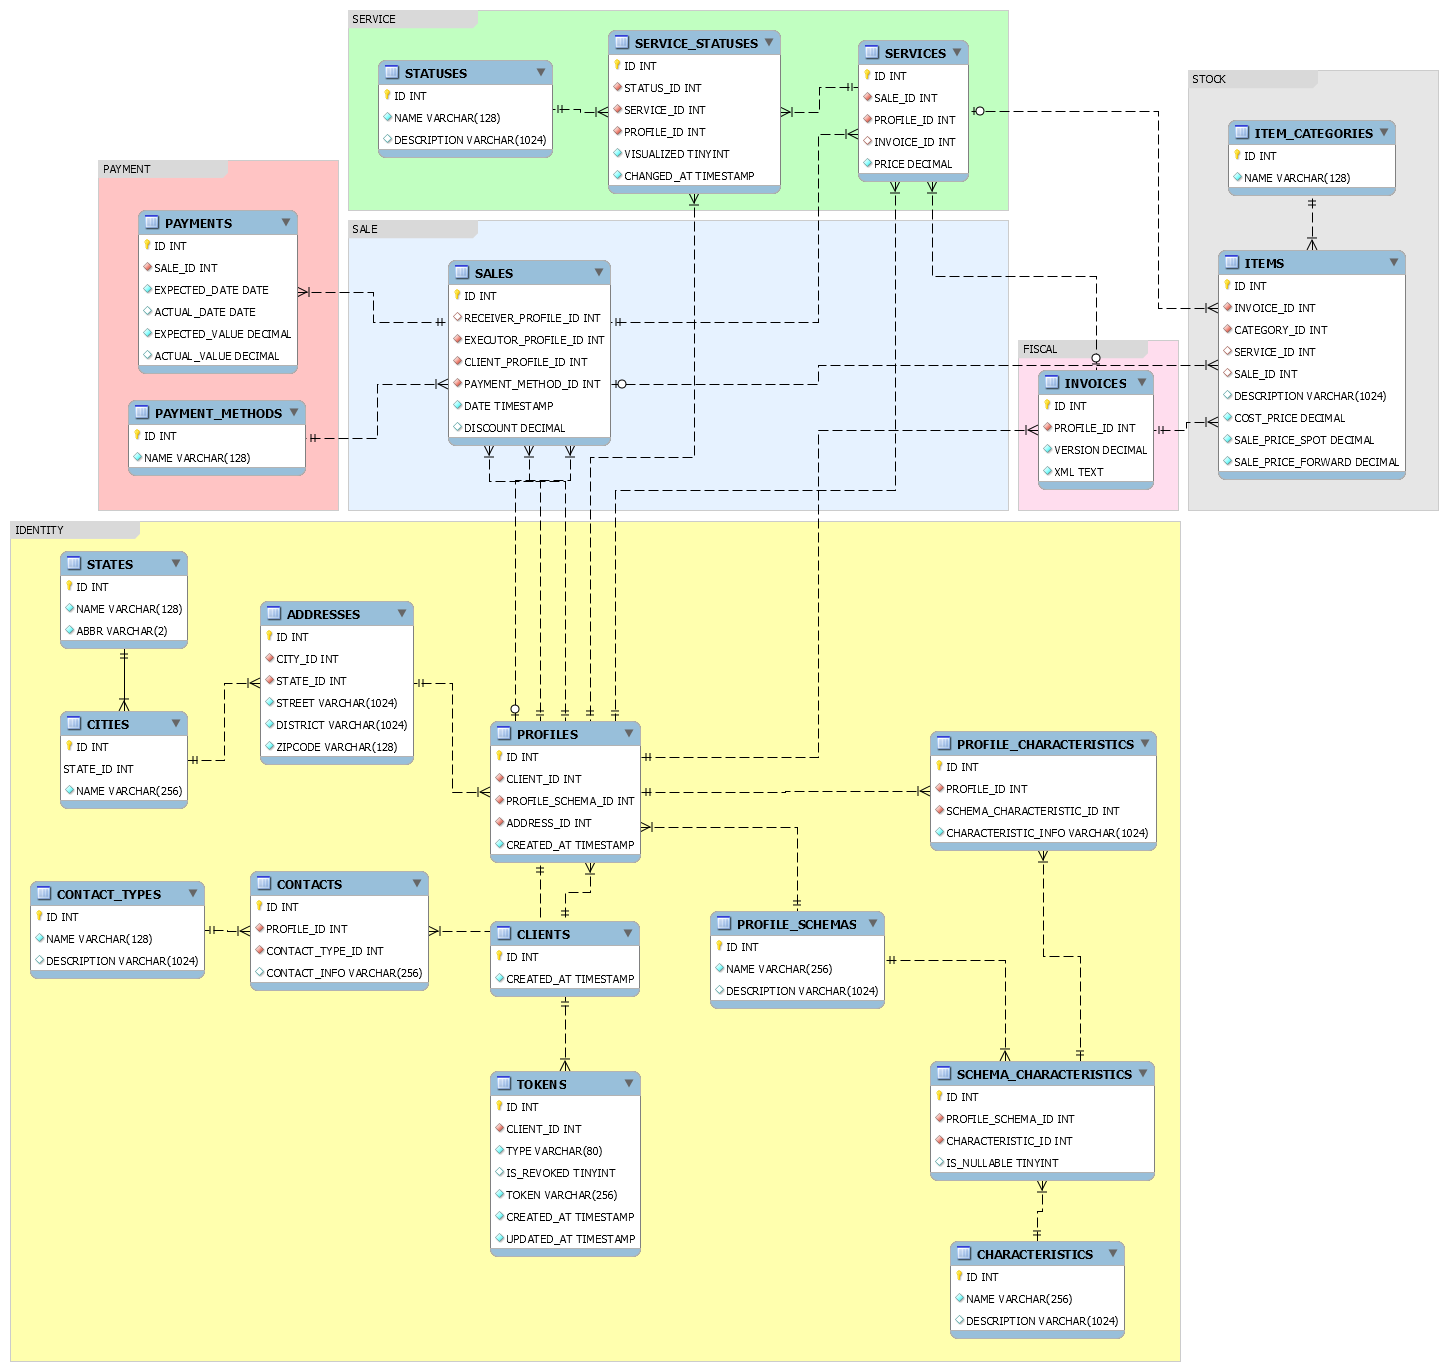
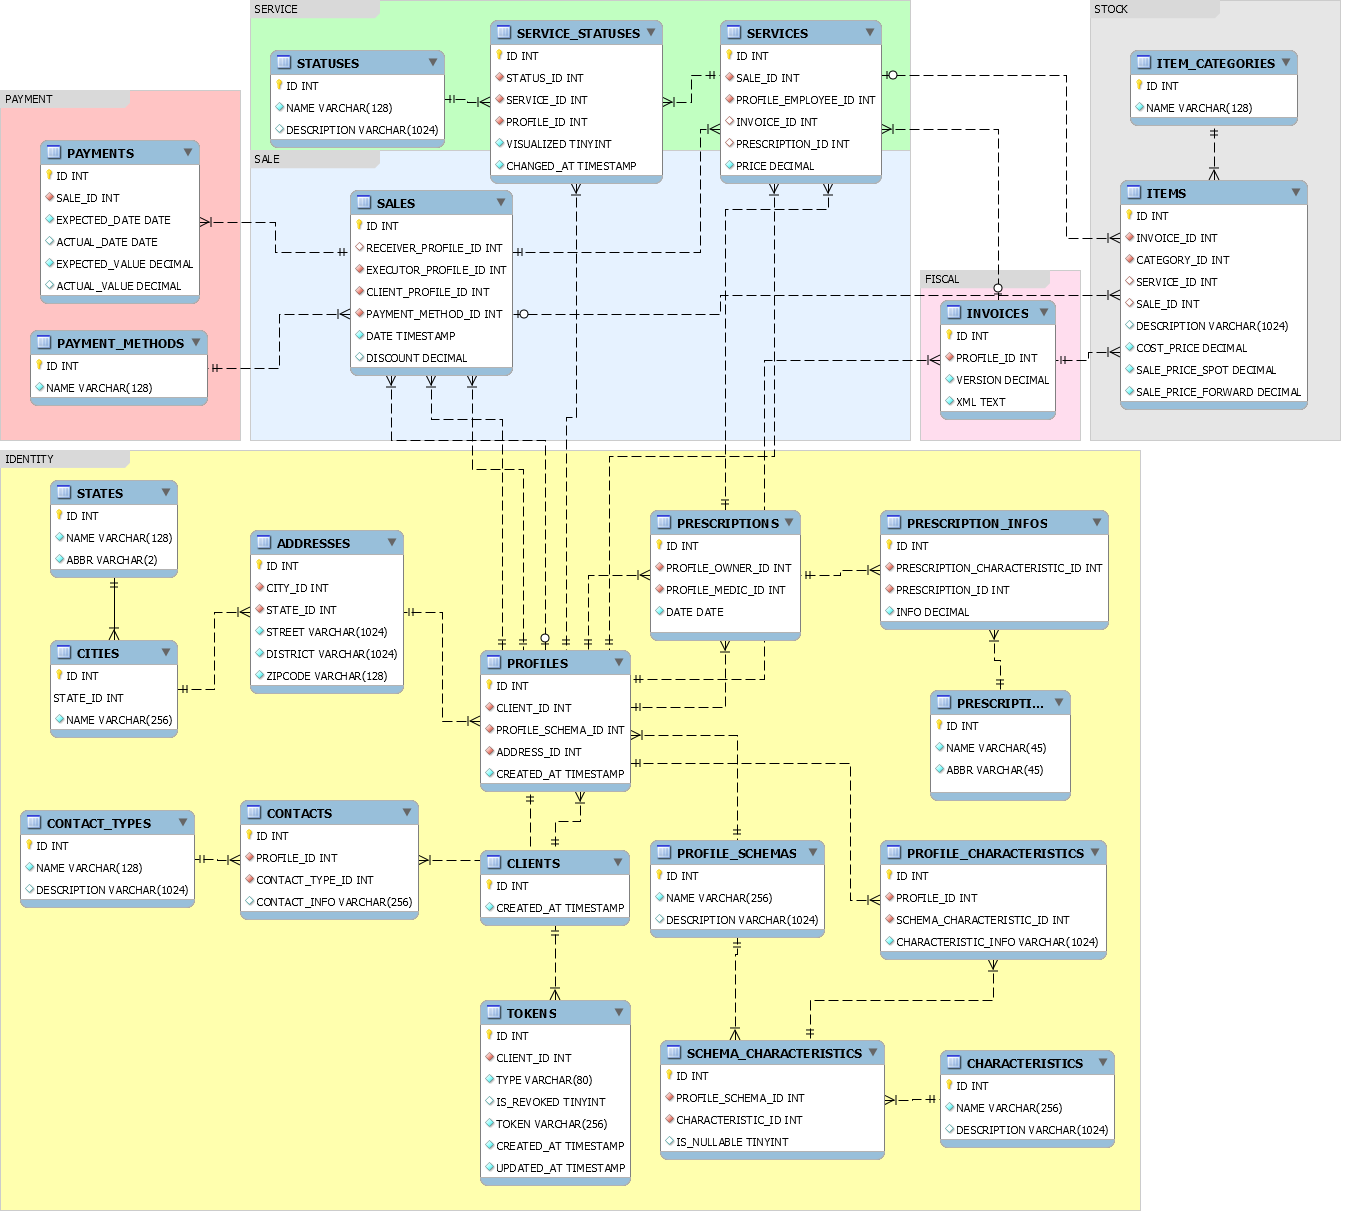
[Artifacts] Adicionado modelo para receitas

diff --git a/README.md b/README.md
@@ -1,7 +1,9 @@
 # TRABALHO 01 : ÓTICA
+
 Trabalho desenvolvido durante a disciplina de Banco de Dados II.
 
 ## SUMÁRIO
+
 - [1 COMPONENTES](#1componentes)
 - [2 INTRODUÇÃO E MOTIVAÇÃO](#2introduÇÃo-e-motivaÇÃo)
 - [3 MINI-MUNDO](#3mini-mundo)
@@ -12,14 +14,18 @@ Trabalho desenvolvido durante a disciplina de Banco de Dados II.
 - [8 INSERT APLICADO NAS TABELAS DO BANCO DE DADOS](#8insert-aplicado-nas-tabelas-do-banco-de-dados)
 - [9 TABELAS E PRINCIPAIS CONSULTAS](#9tabelas-e-principais-consultas)
 
-## 1	COMPONENTES
+## 1 COMPONENTES
+
 ### 1.1 Integrantes do grupo
+
 - Sávio Santos Serra
 
-## 2	INTRODUÇÃO E MOTIVAÇÃO
+## 2 INTRODUÇÃO E MOTIVAÇÃO
+
 Através da observação da dificuldade em gerir dados de clientes, pagamentos e vendas em uma ótica, pensou-se em um sistema que facilitasse essa gestão.
 
-## 3	MINI-MUNDO
+## 3 MINI-MUNDO
+
     A ótica X atualmente realiza o controle de ordens de serviço e pagamentos de clientes manualmente, aspectos esses que mais impactam em sua receita. Contudo, existe uma grande dificuldade para verificar quando uma ordem de serviço foi solicitada, ou quando um pagamento deve ser realizado. Assim, a ótica tem interesse em um sistema que possa automatizar tais interações e extrair relatórios do sistema, como pagamentos a serem recebidos em certo mês, ordens de serviço solicitadas, funcionários mais ativos, receita bruta, entre outros.
 
     O processo atualmente ocorre da seguinte forma:
@@ -29,63 +35,77 @@ Através da observação da dificuldade em gerir dados de clientes, pagamentos e
 
         c. Uma vez que o laboratório entrega a ordem de serviço, o cliente é notificado e pode buscar o item na loja.
 
-## 4	RASCUNHOS BÁSICOS DA INTERFACE
+## 4 RASCUNHOS BÁSICOS DA INTERFACE
+
 <Inserir aqui>
 
-## 5	MODELO CONCEITUAL
+## 5 MODELO CONCEITUAL
+
 ### 5.1 NOTACAO ENTIDADE RELACIONAMENTO
+
 ![Otica](https://i.imgur.com/RYtWGyO.png)
-    
+
 ### 5.2 DECISÕES DE PROJETO
+
     [atributo]: [descrição da decisão]
-    
+
     EXEMPLO:
-    a) Campo endereço: em nosso projeto optamos por um campo multivalorado e composto, pois a empresa 
-    pode possuir para cada departamento mais de uma localização... 
+    a) Campo endereço: em nosso projeto optamos por um campo multivalorado e composto, pois a empresa
+    pode possuir para cada departamento mais de uma localização...
     b) justifique!
 
-### 5.3 DESCRIÇÃO DOS DADOS 
+### 5.3 DESCRIÇÃO DOS DADOS
+
     [objeto]: [descrição do objeto]
-    
+
     EXEMPLO:
     CLIENTE: Tabela que armazena as informações relativas ao cliente
     CPF: campo que armazena o número de Cadastro de Pessoa Física para cada cliente da empresa.
 
-## 6	MODELO LÓGICO
+## 6 MODELO LÓGICO
 
-## 7	MODELO FÍSICO
+## 7 MODELO FÍSICO
 
-## 8	INSERT APLICADO NAS TABELAS DO BANCO DE DADOS
+![ModeloFisico](https://raw.githubusercontent.com/savioserra/trab-banco-dados/develop/artifacts/images/modelo_fisico.png)
+
+## 8 INSERT APLICADO NAS TABELAS DO BANCO DE DADOS
+
 ### 8.1 DETALHAMENTO DAS INFORMAÇÕES
+
         Detalhamento sobre as informações e processo de obtenção ou geração dos dados.
         Referenciar todas as fontes referentes a:
         a) obtenção dos dados
         b) obtenção de códigos reutilizados
         c) fontes de estudo para desenvolvimento do projeto
-        
+
 ### 8.2 INCLUSÃO DO SCRIPT PARA CRIAÇÃO DE TABELAS E INSERÇÃO DOS DADOS (ARQUIVO ÚNICO COM):
+
         a) inclusão das instruções para criação das tabelas e estruturas de amazenamento do BD
         b) inclusão das instruções de inserção dos dados nas referidas tabelas
         c) inclusão das instruções para execução de outros procedimentos necessários
 
-## 9	TABELAS E PRINCIPAIS CONSULTAS
-### 9.1	GERACAO DE DADOS (MÍNIMO DE 10 REGISTROS PARA CADA TABELA NO BANCO DE DADOS)
+## 9 TABELAS E PRINCIPAIS CONSULTAS
+
+### 9.1 GERACAO DE DADOS (MÍNIMO DE 10 REGISTROS PARA CADA TABELA NO BANCO DE DADOS)
 
 ## Data de Entrega: (06/09/2018)
+
 OBS: Incluir para os tópicos 9.2 e 9.3 as instruções SQL + imagens (print da tela) mostrando os resultados.
 
-### 9.2	SELECT DAS TABELAS COM PRIMEIROS 10 REGISTROS INSERIDOS
+### 9.2 SELECT DAS TABELAS COM PRIMEIROS 10 REGISTROS INSERIDOS
 
-### 9.3	SELECT DAS VISÕES COM PRIMEIROS 10 REGISTROS DA VIEW
-        a) Descrição da view sobre que grupos de usuários (operacional/estratégico) 
+### 9.3 SELECT DAS VISÕES COM PRIMEIROS 10 REGISTROS DA VIEW
+
+        a) Descrição da view sobre que grupos de usuários (operacional/estratégico)
         e necessidade ela contempla.
-        b) Descrição das permissões de acesso e usuários correlacionados (após definição 
+        b) Descrição das permissões de acesso e usuários correlacionados (após definição
         destas características)
-        c) as funcionalidades informadas no minimundo ou nos mockups(protótipos), que representarem 
-        views do sistema (relatórios, informações disponíveis para os usuários, etc) devem estar 
-        presentes aqui. 
+        c) as funcionalidades informadas no minimundo ou nos mockups(protótipos), que representarem
+        views do sistema (relatórios, informações disponíveis para os usuários, etc) devem estar
+        presentes aqui.
 
-### 9.4	LISTA DE CODIGOS DAS FUNÇÕES, ASSERÇOES E TRIGGERS
+### 9.4 LISTA DE CODIGOS DAS FUNÇÕES, ASSERÇOES E TRIGGERS
+
         Detalhamento sobre funcionalidade de cada código.
         a) Objetivo
         b) Código do objeto (função/trigger/asserção)
@@ -94,15 +114,17 @@ OBS: Incluir para os tópicos 9.2 e 9.3 as instruções SQL + imagens (print da 
 
 ## Data de Entrega: (27/09/2018)
 
-### 9.5	Administração do banco de dados
-        Descrição detalhada sobre como serão executadas no banco de dados as 
+### 9.5 Administração do banco de dados
+
+        Descrição detalhada sobre como serão executadas no banco de dados as
         seguintes atividades.
         a) Segurança e autorização de acesso: especificação básica de configurações de acesso remoto
         b) Estimativas de aquisição de recursos para armazenamento e processamento da informação
         c) Planejamento de rotinas de manutenção e monitoramento do banco
         d) Plano com frequencia de análises visando otimização de performance
 
-### 9.6	GERACAO DE DADOS (MÍNIMO DE 1,5 MILHÃO DE REGISTROS PARA PRINCIPAL RELAÇAO)
+### 9.6 GERACAO DE DADOS (MÍNIMO DE 1,5 MILHÃO DE REGISTROS PARA PRINCIPAL RELAÇAO)
+
         a) principal tabela do sistema deve ter no mínimo 1,5 milhão de registros
         b) tabelas diretamente relacionadas a tabela principal 100 mil registros
         c) tabelas auxiliares de relacao multivalorada mínimo de 10 registros
@@ -110,10 +132,11 @@ OBS: Incluir para os tópicos 9.2 e 9.3 as instruções SQL + imagens (print da 
         e) especificar a quantidade de registros inseridos em cada tabela
         Para melhor compreensão verifiquem o exemplo na base de testes:
         https://github.com/discipbd2/base-de-testes-locadora
-        
+
 ## Data de Entrega: (31/10/2018)
 
-### 9.7	Backup do Banco de Dados
+### 9.7 Backup do Banco de Dados
+
         Detalhamento do backup.
         a) Tempo
         b) Tamanho
@@ -122,35 +145,41 @@ OBS: Incluir para os tópicos 9.2 e 9.3 as instruções SQL + imagens (print da 
         e) Teste de restauração (script sql)
         f) Tempo para restauração (script sql)
 
-### 9.8	APLICAÇAO DE ÍNDICES E TESTES DE PERFORMANCE
-    a) Lista de índices, tipos de índices com explicação de porque foram implementados nas consultas 
+### 9.8 APLICAÇAO DE ÍNDICES E TESTES DE PERFORMANCE
+
+    a) Lista de índices, tipos de índices com explicação de porque foram implementados nas consultas
     b) Performance esperada VS Resultados obtidos
     c) Tabela de resultados comparando velocidades antes e depois da aplicação dos índices (constando velocidade esperada com planejamento, sem indice e com índice Vs velocidade de execucao real com índice e sem índice).
     d) Escolher as consultas mais complexas para serem analisadas (consultas com menos de 2 joins não serão aceitas)
     e) As imagens do Explain devem ser inclusas no trabalho, bem como explicações sobre os resultados obtidos.
-    f) Inclusão de tabela mostrando as 10 execuções, excluindo-se o maior e menor tempos para cada consulta e 
+    f) Inclusão de tabela mostrando as 10 execuções, excluindo-se o maior e menor tempos para cada consulta e
     obtendo-se a media dos outros valores como resultado médio final.
 
 ## Data de Entrega: (22/11/2018)
 
 ### 9.9 TRABALHO EM DUPLA - Machine Learning e Data Mining
+
 ### Estudar algum dos algoritmos abaixo
-### Incluir no trabalho os seguintes tópicos: 
-* Explicação/Fundamentação teórica sobre o método, objetivos e restrições! (formato doc/odt ou PDF)
-* Onde/quando aplicar 
-> ##### Estudar e explicar artigo que aplique o método de mineração de dados/machine learning escolhido
-* exemplo de uso/aplicação 
-> ##### a) Implementar algoritmo de básico de exemplo obtido na literatura (enviar código executável junto do trabalho com detalhamento de explicação para uso passo a passo)
-> #####  b) Aplicar em alguma base de dados aberta (governamental ou sites de datasets disponíveis), registrar e apresentar resultados e algoritmo desenvolvido.
+
+### Incluir no trabalho os seguintes tópicos:
+
+- Explicação/Fundamentação teórica sobre o método, objetivos e restrições! (formato doc/odt ou PDF)
+- Onde/quando aplicar
+  > ##### Estudar e explicar artigo que aplique o método de mineração de dados/machine learning escolhido
+- exemplo de uso/aplicação
+  > ##### a) Implementar algoritmo de básico de exemplo obtido na literatura (enviar código executável junto do trabalho com detalhamento de explicação para uso passo a passo)
+  >
+  > ##### b) Aplicar em alguma base de dados aberta (governamental ou sites de datasets disponíveis), registrar e apresentar resultados e algoritmo desenvolvido.
 
 Exemplos de métodos/algoritmos a serem estudados
-* "Nearest Neighbors" 
-* "Linear SVM" 
-* "RBF SVM" 
-* "Decision Tree" 
-* "Random Forest"
-* Pca  
-* "Naive Bayes"
+
+- "Nearest Neighbors"
+- "Linear SVM"
+- "RBF SVM"
+- "Decision Tree"
+- "Random Forest"
+- Pca
+- "Naive Bayes"
 
 Referência: http://scikit-learn.org/stable/index.html
 
@@ -160,8 +189,10 @@ Machine learning in Python with scikit-learn: https://www.youtube.com/playlist?l
 
 ## Data de Entrega: (06/12/2018)
 
-## 10	ATUALIZAÇÃO DA DOCUMENTAÇÃO/ SLIDES E ENTREGA FINAL
+## 10 ATUALIZAÇÃO DA DOCUMENTAÇÃO/ SLIDES E ENTREGA FINAL
 
 ### OBSERVAÇÕES
-Link para BrModelo: 
-* http://sis4.com/brModelo/brModelo/download.html
+
+Link para BrModelo:
+
+- http://sis4.com/brModelo/brModelo/download.html
